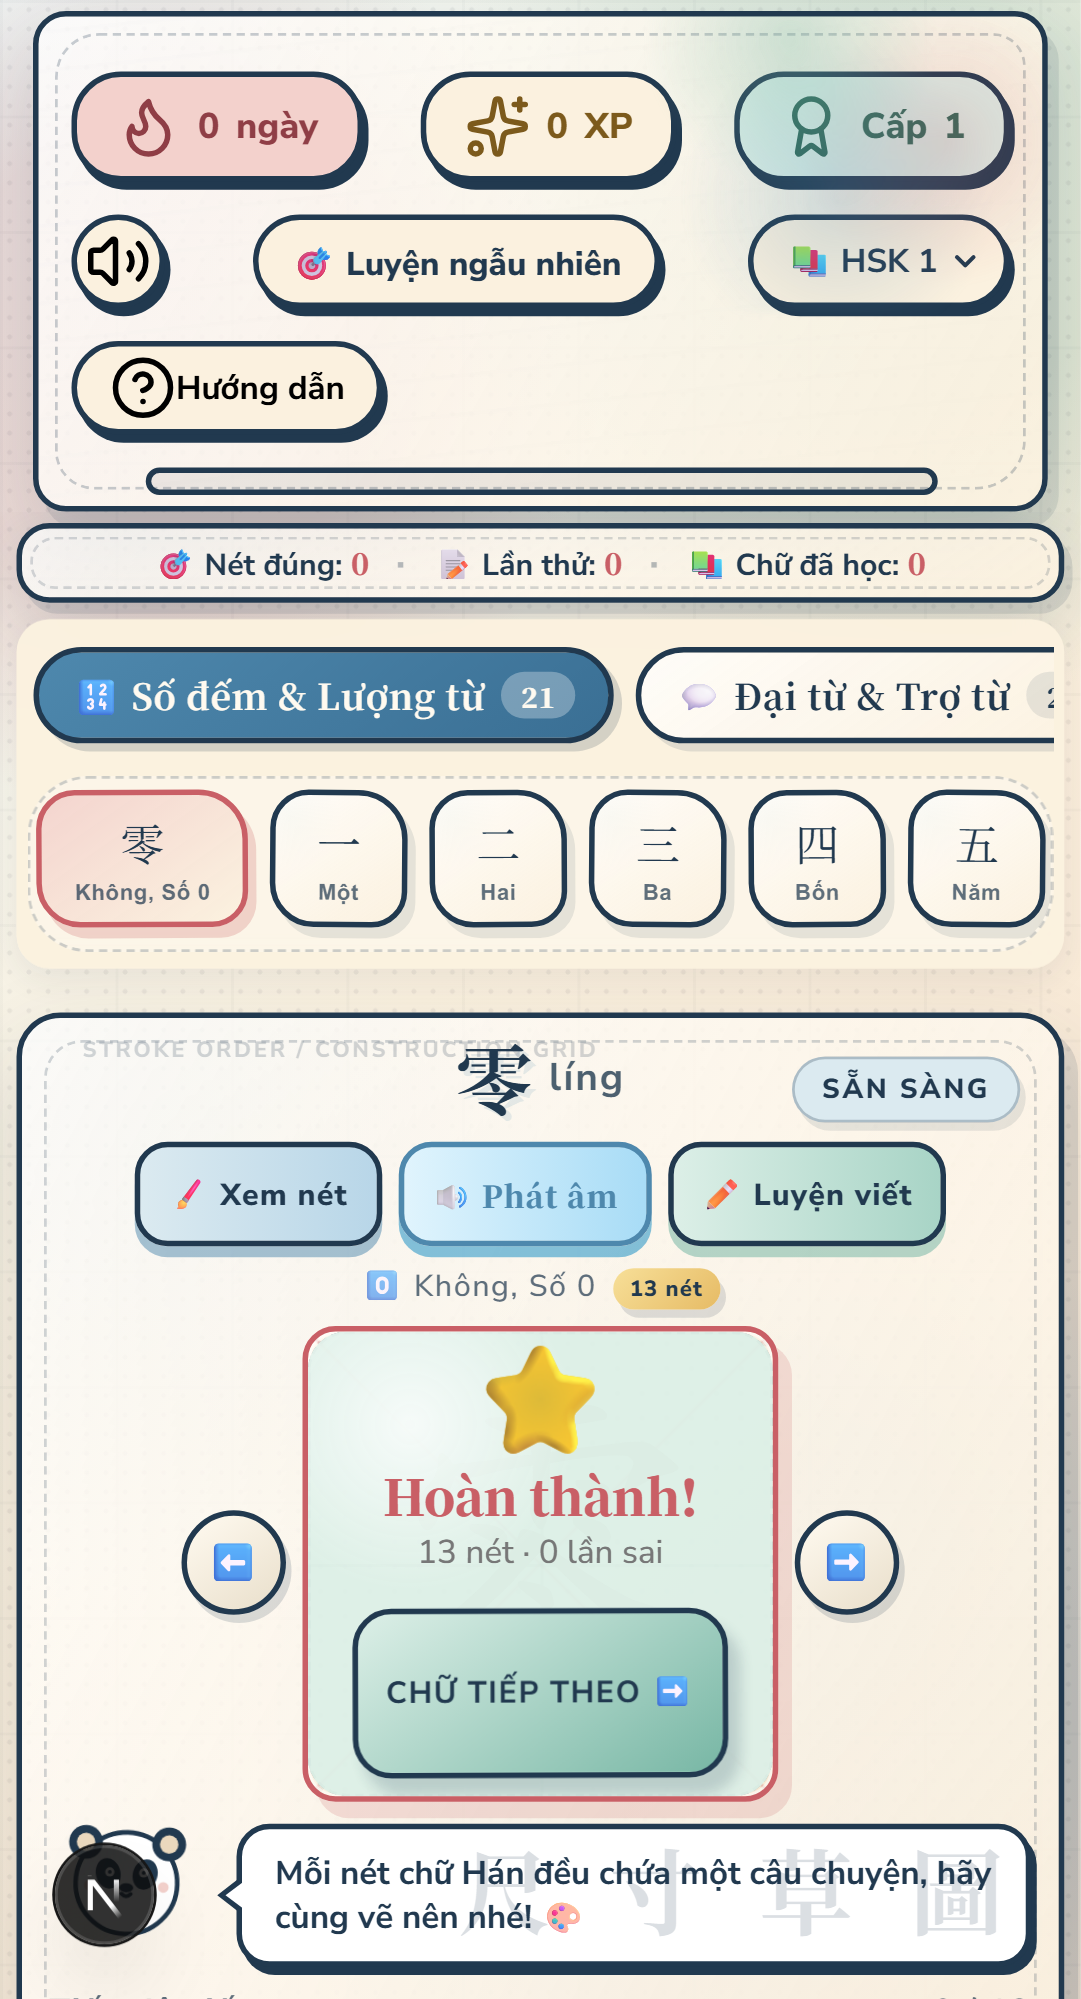
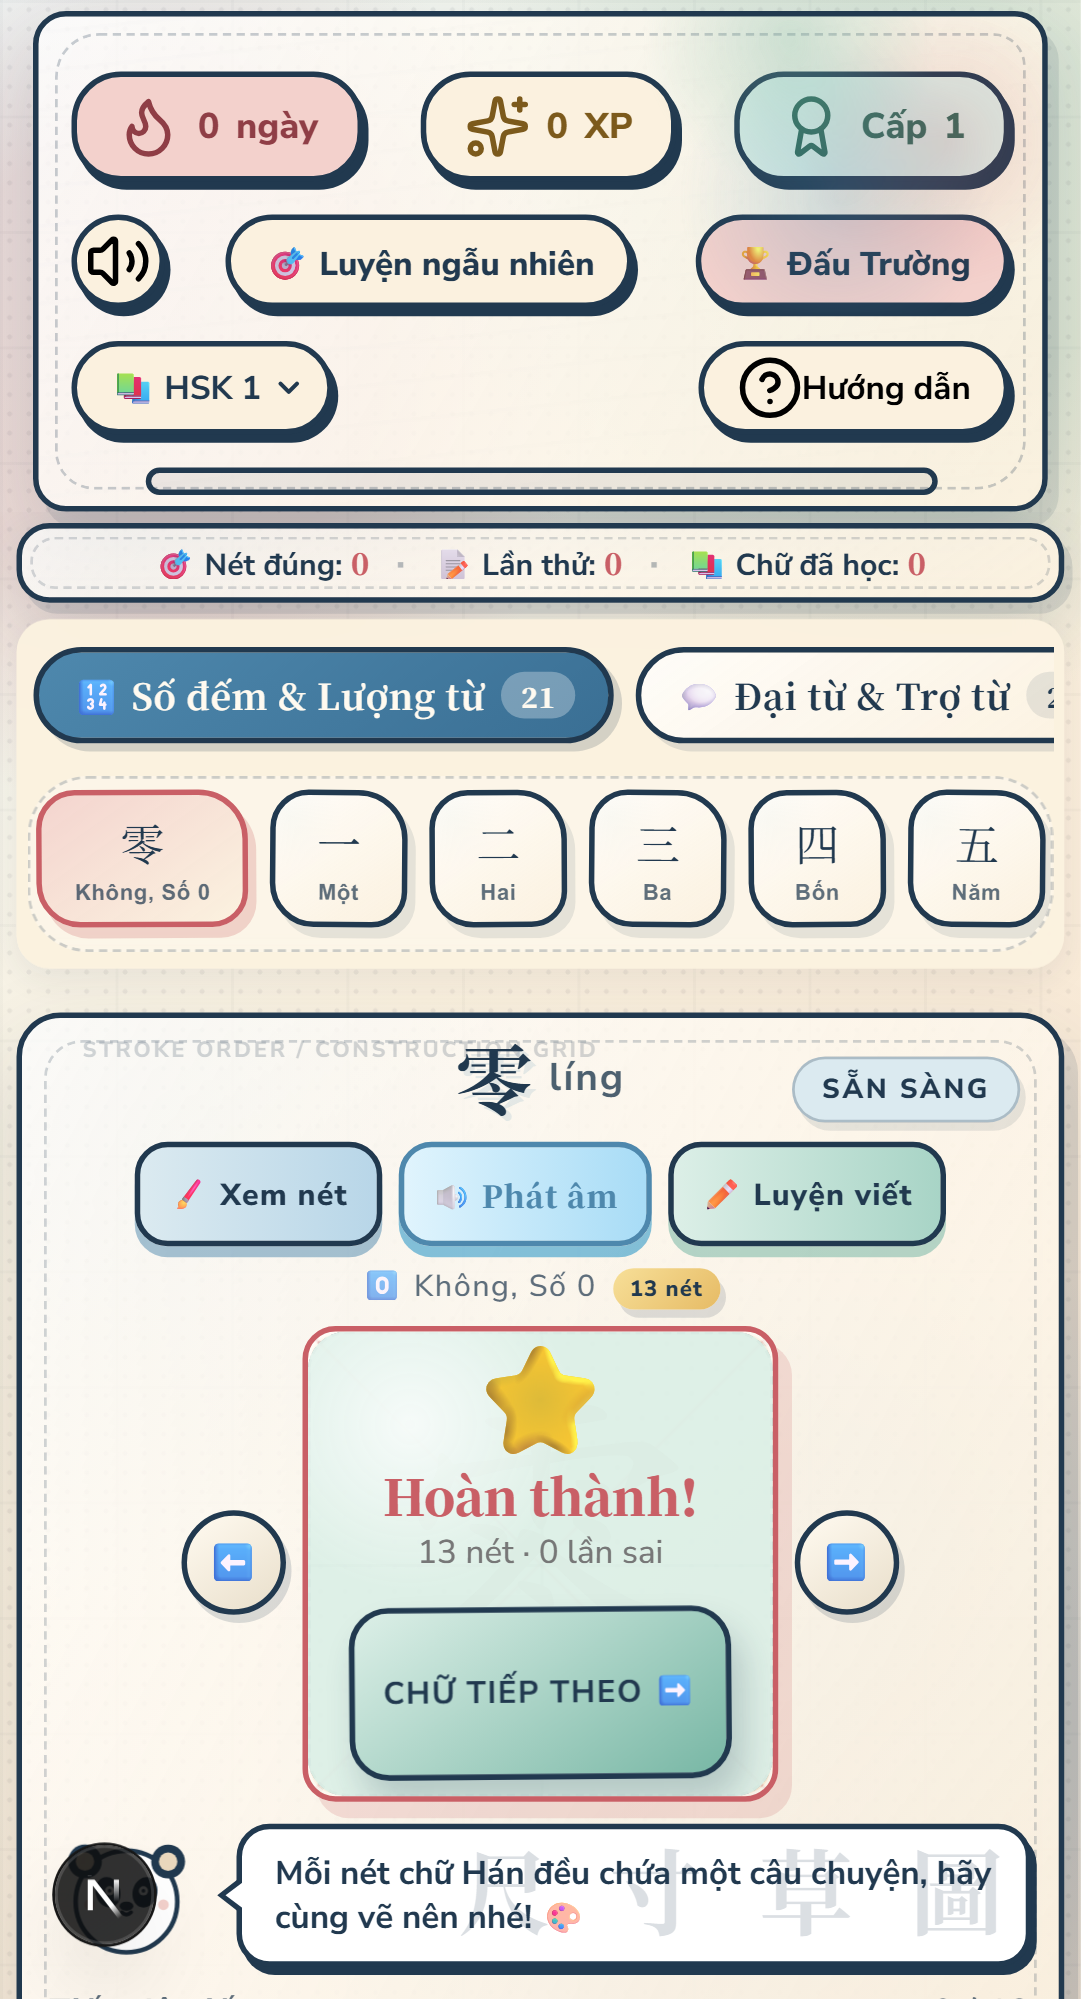
feat(nav): Add home navigation controls
Add home links to practice and tournament setup flows and show home navigation outside the landing page.

Track the screenshot helper and refreshed mobile overlay artifact.

diff --git a/scratch/test-screenshot.js b/scratch/test-screenshot.js
@@ -1,0 +1,88 @@
+const { chromium } = require('@playwright/test');
+const fs = require('fs');
+const path = require('path');
+
+(async () => {
+  console.log('Launching browser...');
+  const browser = await chromium.launch({ headless: true });
+  const page = await browser.newPage();
+  
+  console.log('Navigating to tournament page...');
+  
+  // Set localStorage via page.addInitScript to bypass Cookie Banner
+  await page.addInitScript(() => {
+    window.localStorage.setItem('cookie_consent_accepted', 'true');
+  });
+  
+  await page.goto('http://localhost:3000/tournament');
+  
+  // Wait for the card to render
+  await page.waitForSelector('.tour-card');
+  
+  // Create scratch folder if not exists
+  const scratchDir = path.join(__dirname);
+  if (!fs.existsSync(scratchDir)) {
+    fs.mkdirSync(scratchDir, { recursive: true });
+  }
+  
+  // Take screenshot 1: Setup view initial state
+  await page.screenshot({ path: path.join(scratchDir, 'setup-initial.png') });
+  console.log('Took setup-initial.png');
+  
+  // Click Start without entering names
+  console.log('Clicking start without names...');
+  await page.click('button:has-text("Bắt Đầu Đua Tài!")');
+  await page.waitForTimeout(500);
+  
+  // Take screenshot 2: After clicking start without names (should show validation error)
+  await page.screenshot({ path: path.join(scratchDir, 'setup-error.png') });
+  console.log('Took setup-error.png');
+  
+  // Fill names
+  console.log('Filling player names...');
+  const inputs = page.locator('.player-name-input');
+  await inputs.nth(0).fill('A Bao');
+  await inputs.nth(1).fill('Tieu Hoa');
+  await inputs.nth(2).fill('Tieu Long');
+
+  // Test selecting HSK level and word count
+  console.log('Selecting HSK2 and 5 Words...');
+  const hsk1Btn = page.locator('button:has-text("Cấp HSK1")');
+  const hsk2Btn = page.locator('button:has-text("Cấp HSK2")');
+  const hsk3Btn = page.locator('button:has-text("Cấp HSK3")');
+  const words3Btn = page.locator('button:has-text("3 Từ Hán")');
+  const words5Btn = page.locator('button:has-text("5 Từ Hán")');
+  
+  console.log('Classes BEFORE clicking HSK2 & 5 Words:');
+  console.log('  HSK1:', await hsk1Btn.getAttribute('class'));
+  console.log('  HSK2:', await hsk2Btn.getAttribute('class'));
+  console.log('  Words 3:', await words3Btn.getAttribute('class'));
+  console.log('  Words 5:', await words5Btn.getAttribute('class'));
+
+  // Click them
+  await hsk2Btn.click();
+  await words5Btn.click();
+  await page.waitForTimeout(200);
+
+  console.log('Classes AFTER clicking HSK2 & 5 Words:');
+  console.log('  HSK1:', await hsk1Btn.getAttribute('class'));
+  console.log('  HSK2:', await hsk2Btn.getAttribute('class'));
+  console.log('  Words 3:', await words3Btn.getAttribute('class'));
+  console.log('  Words 5:', await words5Btn.getAttribute('class'));
+
+  // Take screenshot after selection change
+  await page.screenshot({ path: path.join(scratchDir, 'setup-selection-changed.png') });
+  console.log('Took setup-selection-changed.png');
+
+  // Click Start again
+  console.log('Clicking start with names...');
+  await page.click('button:has-text("Bắt Đầu Đua Tài!")');
+  await page.waitForTimeout(1000);
+  
+  // Take screenshot 3: Transition state
+  await page.screenshot({ path: path.join(scratchDir, 'transition-screen.png') });
+  console.log('Took transition-screen.png');
+  
+  await browser.close();
+  console.log('Done!');
+})();

diff --git a/src/app/globals.css b/src/app/globals.css
@@ -1965,6 +1965,37 @@ body::after {
   border-color: var(--ds-blueprint);
 }
 
+/* ── Home Nav Button ── */
+.btn-home-nav {
+  background: var(--ds-blueprint-soft);
+  border: 2px solid var(--ds-ink);
+  border-radius: var(--ds-radius);
+  height: 34px;
+  cursor: pointer;
+  display: inline-flex;
+  align-items: center;
+  justify-content: center;
+  font-size: 12px;
+  font-family: var(--font-main);
+  font-weight: 800;
+  color: var(--ds-ink);
+  padding: 0 12px;
+  text-decoration: none;
+  transition: all 0.15s;
+  box-shadow: 2px 3px 0 var(--ds-ink);
+}
+
+.btn-home-nav:hover {
+  background: #b8d6e8;
+  transform: translateY(-1px);
+  box-shadow: 2px 4px 0 var(--ds-ink);
+}
+
+.btn-home-nav:active {
+  transform: translateY(1px);
+  box-shadow: 1px 1px 0 var(--ds-ink);
+}
+
 /* ── Practice Nav Button ── */
 .btn-practice-nav {
   background: var(--ds-rice);

diff --git a/src/app/practice/practice.css b/src/app/practice/practice.css
@@ -490,3 +490,34 @@
     font-size: 13px;
   }
 }
+
+/* ── Setup Back Button ── */
+.btn-setup-back {
+  width: 100%;
+  background: var(--ds-rice);
+  color: var(--ds-ink);
+  font-family: var(--font-main);
+  font-weight: 800;
+  font-size: 16px;
+  padding: 14px 20px;
+  border: 3px solid var(--ds-ink);
+  border-radius: 16px;
+  cursor: pointer;
+  transition: all 0.15s ease;
+  box-shadow: 3px 4px 0 var(--ds-ink);
+  display: flex;
+  align-items: center;
+  justify-content: center;
+  gap: 6px;
+}
+
+.btn-setup-back:hover {
+  background: #fdf8eb;
+  transform: translateY(-1px);
+  box-shadow: 3px 5px 0 var(--ds-ink);
+}
+
+.btn-setup-back:active {
+  transform: translateY(2px);
+  box-shadow: 1px 1px 0 var(--ds-ink);
+}

diff --git a/src/app/tournament/tournament.css b/src/app/tournament/tournament.css
@@ -830,3 +830,34 @@
     padding: 8px 12px;
   }
 }
+
+/* ── Setup Back Button ── */
+.btn-setup-back {
+  width: 100%;
+  background: var(--ds-rice);
+  color: var(--ds-ink);
+  font-family: var(--font-main);
+  font-weight: 800;
+  font-size: 16px;
+  padding: 14px 20px;
+  border: 3px solid var(--ds-ink);
+  border-radius: 16px;
+  cursor: pointer;
+  transition: all 0.15s ease;
+  box-shadow: 3px 4px 0 var(--ds-ink);
+  display: flex;
+  align-items: center;
+  justify-content: center;
+  gap: 6px;
+}
+
+.btn-setup-back:hover {
+  background: #fdf8eb;
+  transform: translateY(-1px);
+  box-shadow: 3px 5px 0 var(--ds-ink);
+}
+
+.btn-setup-back:active {
+  transform: translateY(2px);
+  box-shadow: 1px 1px 0 var(--ds-ink);
+}

diff --git a/src/app/practice/page.tsx b/src/app/practice/page.tsx
@@ -451,14 +451,26 @@ export default function PracticePage() {
               </div>
             </div>
 
-            <button
-              type="button"
-              id="start-practice-btn"
-              className="btn-start-practice"
-              onClick={handleStartPractice}
-            >
-              🔥 Bắt đầu Luyện tập
-            </button>
+            <div style={{ display: 'flex', gap: '12px', marginTop: '16px', width: '100%' }}>
+              <Link href="/" style={{ flex: 1, textDecoration: 'none' }}>
+                <button
+                  type="button"
+                  className="btn-setup-back"
+                  style={{ width: '100%', justifyContent: 'center' }}
+                >
+                  🏠 Về trang chủ
+                </button>
+              </Link>
+              <button
+                type="button"
+                id="start-practice-btn"
+                className="btn-start-practice"
+                onClick={handleStartPractice}
+                style={{ flex: 2, marginTop: 0 }}
+              >
+                🔥 Bắt đầu Luyện tập
+              </button>
+            </div>
           </div>
         )}
 

diff --git a/src/app/tournament/page.tsx b/src/app/tournament/page.tsx
@@ -575,14 +575,25 @@ export default function TournamentPage() {
               </div>
             )}
 
-            <button
-              type="button"
-              className="btn-start-practice"
-              onClick={handleStartTournament}
-              style={{ marginTop: '16px' }}
-            >
-              🚀 Bắt Đầu Đua Tài!
-            </button>
+            <div style={{ display: 'flex', gap: '12px', marginTop: '16px', width: '100%' }}>
+              <Link href="/" style={{ flex: 1, textDecoration: 'none' }}>
+                <button
+                  type="button"
+                  className="btn-setup-back"
+                  style={{ width: '100%', justifyContent: 'center' }}
+                >
+                  🏠 Về trang chủ
+                </button>
+              </Link>
+              <button
+                type="button"
+                className="btn-start-practice"
+                onClick={handleStartTournament}
+                style={{ flex: 2, marginTop: 0 }}
+              >
+                🚀 Bắt Đầu Đua Tài!
+              </button>
+            </div>
           </div>
         )}
 

diff --git a/src/components/StatsPanel.tsx b/src/components/StatsPanel.tsx
@@ -3,6 +3,7 @@
 import React from 'react';
 import { Volume2, VolumeX, HelpCircle, Flame, Sparkles, Award } from 'lucide-react';
 import Link from 'next/link';
+import { usePathname } from 'next/navigation';
 
 interface StatsPanelProps {
   xp: number;
@@ -27,6 +28,8 @@ export const StatsPanel: React.FC<StatsPanelProps> = ({
 }) => {
   const currentLevelXP = xp % 500;
   const progressPercent = (currentLevelXP / 500) * 100;
+  const pathname = usePathname();
+  const isHomePage = pathname === '/';
 
   return (
     <div className="header">
@@ -71,6 +74,16 @@ export const StatsPanel: React.FC<StatsPanelProps> = ({
           >
             {isMuted ? <VolumeX className="w-4 h-4 inline" /> : <Volume2 className="w-4 h-4 inline" />}
           </button>
+          
+          {!isHomePage && (
+            <Link 
+              href="/" 
+              className="btn-home-nav"
+              title="Quay lại học theo từ"
+            >
+              🏠 Học theo từ
+            </Link>
+          )}
           
           <Link 
             href="/practice" 